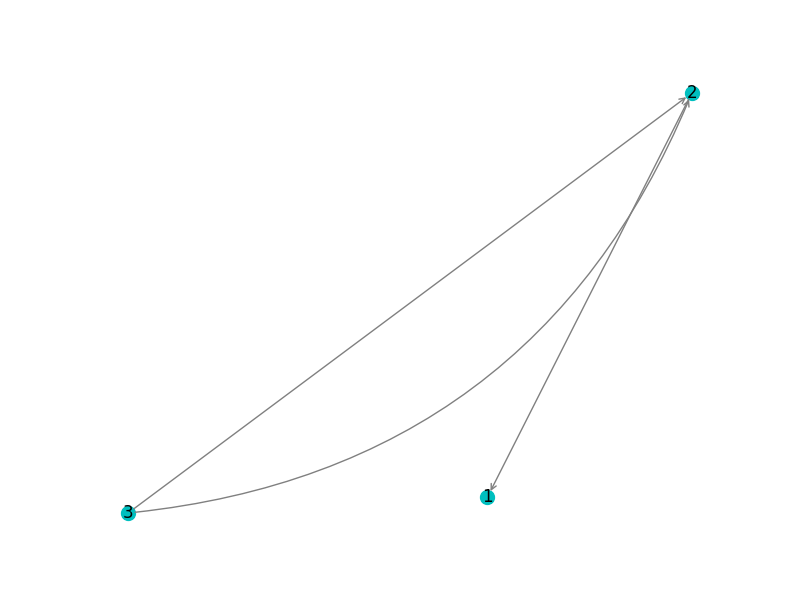
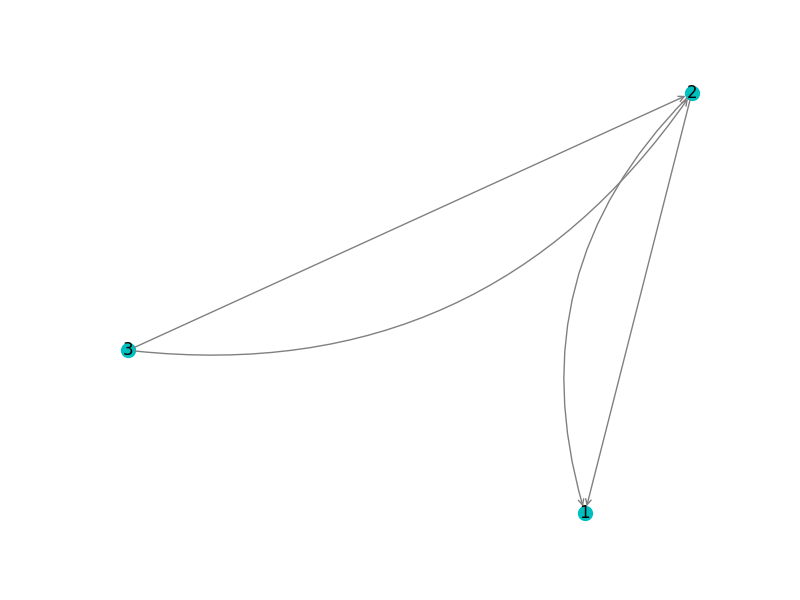
fixed a bug in the way collection L is calculated (caused L to have fake minimal cut-sets added with the correct ones

diff --git a/main.py b/main.py
@@ -41,7 +41,7 @@ G = nx.MultiDiGraph(directed=True)
 G.add_node(1, subset='source')
 G.add_node(2, subset='others')
 G.add_node(3, subset='target')
-G.add_edges_from([(1, 2, 0, {'capacity': "e1"}),(2, 3, 0, {'capacity': "e2"}), (2, 3, 1, {'capacity': "e3"})])
+G.add_edges_from([(1, 2, 0, {'capacity': "e1"}), (1, 2, 1, {'capacity': "e2"}), (2, 3, 0, {'capacity': "e3"}), (2, 3, 1, {'capacity': "e4"})])
 # G.add_edge(1, 2, 2, capacity=2.0)  # Add another edge with a different key
 # print(list(G.nodes))
 # print(list(G.edges))
@@ -96,7 +96,7 @@ for min_cut_set in all_min_cuts:
         #     # don't add current min_cut_set value to L because edge_combination already exists as a minimum cut set
                 flag_is_present = 1
                 break
-            break
+            # break
         # # Check if the edge_combination is not a subset of any existing minimal cut sets in L
         # if flag == 0:
         #     tuple_edge_combination = tuple(edge_combination)  # Convert to tuple
